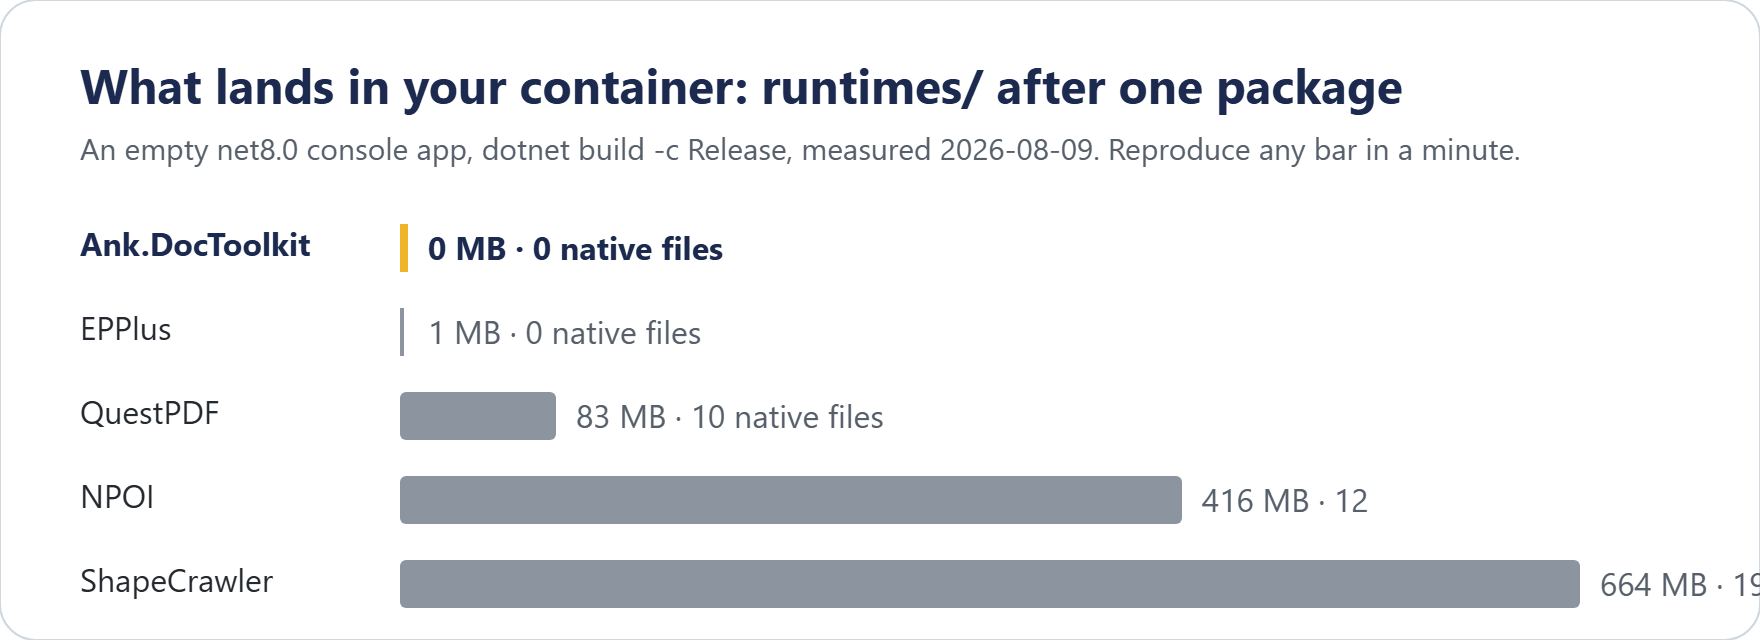
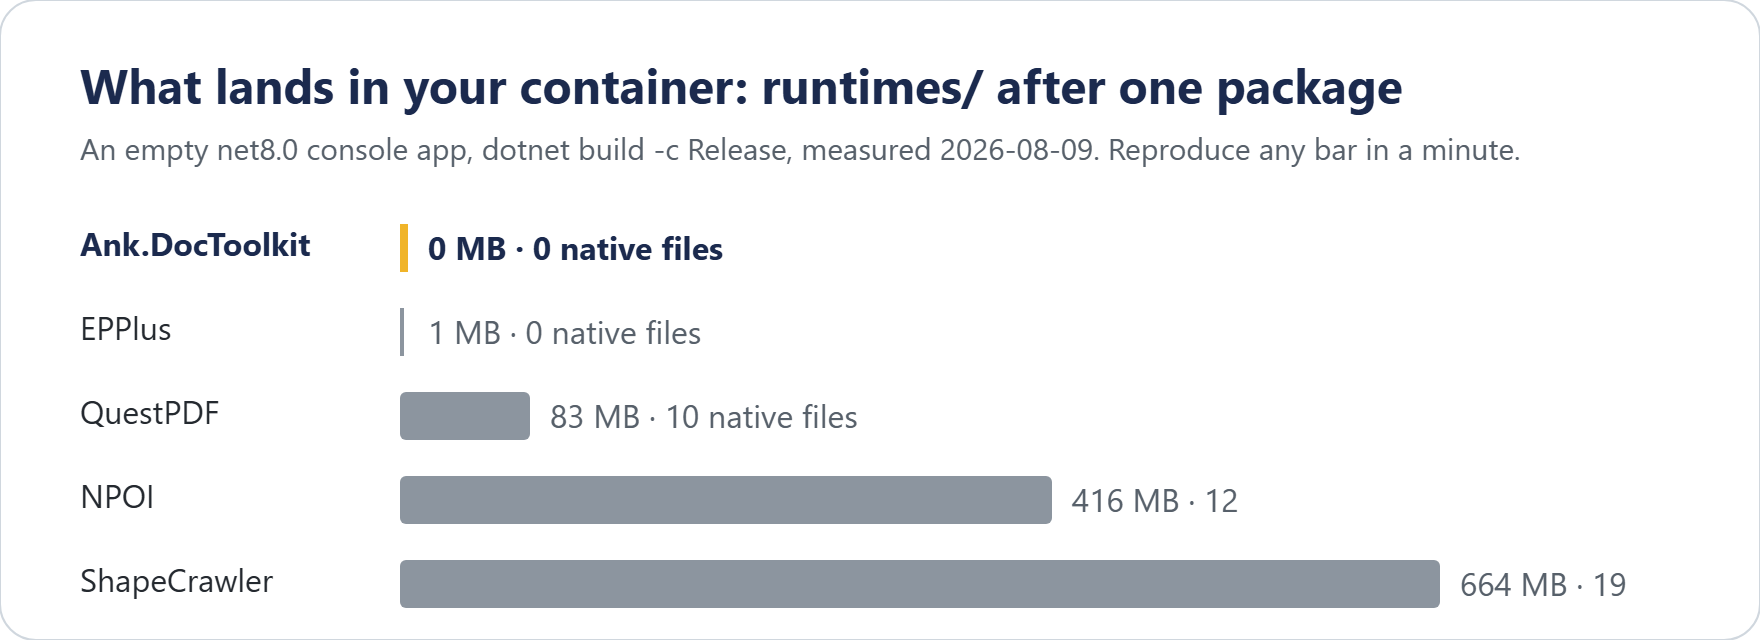
docs: a front page for the GitHub README (D46)
The ponytail layout picked in D46: centred icon, one italic line, four
badges, the hero image, a short story, install, the runtimes/ chart, what
it does, a Proof table, FAQ and links. 202 lines become 157; sentences
average 10 words, none over 25. Two guide links to a README heading that no
longer exists now point at the Reference page, and the chart's bars are
rescaled so the last label fits.

Changed region(s): [[0.5938, 0.7188, 0.7812, 0.8438], [0.2812, 0.5938, 0.5, 0.6875], [0.8125, 0.875, 1.0, 0.9688]]

diff --git a/README.md b/README.md
@@ -1,37 +1,33 @@
-![DocToolkit - convert HTML to PDF and DOCX in C#, no browser, no native binaries](assets/banner.png)
+<p align="center">
+  <img src="assets/icon.png" width="128" alt="DocToolkit">
+</p>
 
-# DocToolkit
+<h1 align="center">DocToolkit</h1>
 
-[![CI](https://github.com/Ank-KhoaHo/DocToolkit/actions/workflows/ci.yml/badge.svg)](https://github.com/Ank-KhoaHo/DocToolkit/actions/workflows/ci.yml)
-[![codecov](https://codecov.io/gh/Ank-KhoaHo/DocToolkit/branch/main/graph/badge.svg)](https://codecov.io/gh/Ank-KhoaHo/DocToolkit)
-[![NuGet](https://img.shields.io/nuget/v/Ank.DocToolkit.svg?label=Ank.DocToolkit)](https://www.nuget.org/packages/Ank.DocToolkit/)
-[![NuGet Downloads](https://img.shields.io/nuget/dt/Ank.DocToolkit.svg)](https://www.nuget.org/packages/Ank.DocToolkit/)
-[![NuGet](https://img.shields.io/nuget/v/Ank.DocToolkit.Extensions.DependencyInjection.svg?label=Ank.DocToolkit.Extensions.DependencyInjection)](https://www.nuget.org/packages/Ank.DocToolkit.Extensions.DependencyInjection/)
+<p align="center">
+  <em>HTML in. Word and PDF out. Nothing else installed.</em>
+</p>
 
-**Convert HTML to PDF in C# — without a headless browser.** Pure managed code: no native
-binaries, no browser, no LibreOffice, no Office interop. Runs on Linux, macOS, Windows and arm64,
-and makes **no network calls at runtime**.
+<p align="center">
+  <a href="https://www.nuget.org/packages/Ank.DocToolkit/"><img src="https://img.shields.io/nuget/v/Ank.DocToolkit?style=flat-square&color=1B2A4E&label=nuget" alt="NuGet"></a>
+  <a href="https://www.nuget.org/packages/Ank.DocToolkit/"><img src="https://img.shields.io/nuget/dt/Ank.DocToolkit?style=flat-square&color=1B2A4E&label=downloads" alt="Downloads"></a>
+  <a href="https://github.com/Ank-KhoaHo/DocToolkit/actions/workflows/ci.yml"><img src="https://img.shields.io/badge/runs%20on-Linux%20%C2%B7%20arm64%20%C2%B7%20Windows%20%C2%B7%20macOS-1B2A4E?style=flat-square" alt="Runs on Linux, arm64, Windows and macOS"></a>
+  <a href="LICENSE"><img src="https://img.shields.io/badge/license-MIT-1B2A4E?style=flat-square" alt="MIT"></a>
+</p>
 
-<!-- BEGIN GENERATED (scripts/gen-capability-matrix.py) - do not edit by hand -->
+<p align="center">
+  <img src="assets/art/hero.png" width="880" alt="The four numbers this library exists for, measured in CI on every push: 0 native binaries in any build output, a 0 MB runtimes folder where QuestPDF adds 83 MB, 0 network calls held by 40 air-gap tests, and 4 platforms in CI: Linux, arm64, Windows and macOS.">
+</p>
 
-| From ↓ / To → | CSV | DOC | DOCX | HTML | Markdown | PDF | PPTX | XLSX |
-|---|---|---|---|---|---|---|---|---|
-| **CSV** | — | · | · | · | · | · | · | · |
-| **DOC** | · | — | **✅** | · | · | · | · | · |
-| **DOCX** | · | · | — | **✅** | **✅** | **✅** | · | · |
-| **HTML** | · | · | **✅** | — | · | **✅** | · | · |
-| **Markdown** | · | · | **✅** | · | — | **✅** | · | · |
-| **PDF** | · | · | · | · | · | — | · | · |
-| **PPTX** | · | · | · | · | · | **✅** | — | · |
-| **XLSX** | **✅** | · | · | **✅** | · | **✅** | · | — |
+---
 
-A **✅** is a converter that ships; **·** is a pair with no converter, not a promise about one. Read a row as "from this format, into these".
+You have a Linux container, a Word template and a PDF due on Friday. The usual answers are a
+headless Chrome, LibreOffice, or a licence with a revenue threshold.
 
-<!-- END GENERATED -->
+DocToolkit is one NuGet package instead. It is pure managed code. It restores, builds and runs the
+same on your laptop and in the container.
 
-Generated from the shipped API, not written by hand — [full grid, plus every edit/read
-operation](https://ank-khoaho.github.io/DocToolkit/guides/capabilities.html). Also: open, edit and
-**password-protect** DOCX, XLSX and PPTX, and read PDF text.
+## Install
 
 ```bash
 dotnet add package Ank.DocToolkit
@@ -51,44 +47,20 @@ byte[] locked = PdfEditor.Protect(pdf, new PdfProtection { UserPassword = "s3cre
 
 <!-- END SNIPPET -->
 
-Targets `net8.0` and `net10.0`. MIT licensed.
+That is the whole setup: no browser download, no `apt-get`, no config file. It targets `net8.0` and
+`net10.0`.
 
-📖 [Guides](https://ank-khoaho.github.io/DocToolkit/guides/getting-started.html) ·
-🔎 [API reference](https://ank-khoaho.github.io/DocToolkit/) · 🗺 [Roadmap](ROADMAP.md) · 📦
-[package README](src/DocToolkit/README.md) · 📝 [CHANGELOG](CHANGELOG.md)
+## Numbers
 
-> **Contributing?** Branch from `main` and open a pull request back into it — `main` itself cannot
-> be pushed directly. See [CONTRIBUTING.md](CONTRIBUTING.md) for the build, the commit-message
-> rules, and the four constraints that will get a pull request rejected.
+<p align="center">
+  <img src="assets/art/runtimes.png" width="880" alt="What lands in your container: the runtimes folder after one dotnet add package, in an empty net8.0 app. Ank.DocToolkit 0 MB and 0 native files; EPPlus 1 MB and 0; QuestPDF 83 MB and 10; NPOI 416 MB and 12; ShapeCrawler 664 MB and 19.">
+</p>
 
-## Measured against the alternatives
+Every bar takes a minute to reproduce. The licence column and the method sit beside the chart in
+[Measured against the alternatives](https://ank-khoaho.github.io/DocToolkit/guides/reference.html#measured-against-the-alternatives).
 
-Most .NET document stacks fail one of three things: a licence with a revenue threshold, a native
-binary that breaks on Linux, or a claim nobody re-checked. This package is built to fail none of
-them, and the numbers below are how that gets verified rather than asserted.
-
-```mermaid
-xychart-beta
-    title "runtimes/ folder in a plain build (MB)"
-    x-axis ["Ank.DocToolkit", "EPPlus", "QuestPDF", "NPOI", "ShapeCrawler"]
-    y-axis "MB in build output" 0 --> 700
-    bar [0, 1, 83, 416, 664]
-```
-
-Those bars are the `runtimes/` column below, which is **not** the same measurement as the native-file
-count beside it: EPPlus's 1 MB contains **zero** `.so`/`.dylib` files. Both are in the table.
-
-| package | native `.so`/`.dylib` in build output | `runtimes/` | licence in NuGet metadata |
-|---|---|---|---|
-| **Ank.DocToolkit** | **0** | **0 MB** | **`MIT`**, as an SPDX expression |
-| EPPlus | 0 | 1 MB | ships `license.md` — read it |
-| QuestPDF | 10 | 83 MB | ships `LICENSE.md` — read it |
-| NPOI | 12 | 416 MB | ships `OSMFEULA.txt` — read it |
-| ShapeCrawler | 19 | 664 MB | none declared |
-
-Every number was measured on 2026-08-09 by adding the package to an empty `net8.0` console app and
-building it. **Reproduce any row in under a minute** — that is the point of publishing the method
-rather than a conclusion:
+<details>
+<summary>Reproduce a bar</summary>
 
 ```bash
 dotnet new console && dotnet add package <name> && dotnet build -c Release
@@ -96,15 +68,7 @@ find bin -path '*runtimes*' \( -name '*.so' -o -name '*.dylib' \) | wc -l
 du -sm bin/Release/net8.0/runtimes
 ```
 
-**Two things this table deliberately does not do.** It does not tell you what those licences say —
-they are linked from each package's own page and are the authors' to describe, not ours. And it does
-not claim native payload is everyone's problem: **EPPlus carries essentially none**, so if that is
-your only concern it is not a reason to switch. Where the payload does appear it comes from
-SkiaSharp and Magick.NET, pulled in transitively for image rendering.
-
-What the table is for is the case where **both** columns matter at once — a Linux container that has
-to stay small, with a licence you can clear without asking anybody. That combination is the whole
-reason this package exists, and all four constraints below are re-checked by CI on every push.
+</details>
 
 ## What it does
 
@@ -115,49 +79,35 @@ reason this package exists, and all four constraints below are re-checked by CI 
 | **PDF** | page count, merge, split, extract, rotate, reorder, insert; read text; read and stamp document information |
 | **Protect** | password-protect and unprotect PDF, DOCX, XLSX and PPTX |
 
-The full grid is generated from the shipped API rather than written by hand:
-**[what it can convert](https://ank-khoaho.github.io/DocToolkit/guides/capabilities.html)**.
+<!-- BEGIN GENERATED (scripts/gen-capability-matrix.py) - do not edit by hand -->
 
-Task-shaped walkthroughs, one per format, start at
-**[Getting started](https://ank-khoaho.github.io/DocToolkit/guides/getting-started.html)** for the
-install-to-first-conversion path, or jump straight to the page for the format you need.
+| From ↓ / To → | CSV | DOC | DOCX | HTML | Markdown | PDF | PPTX | XLSX |
+|---|---|---|---|---|---|---|---|---|
+| **CSV** | — | · | · | · | · | · | · | · |
+| **DOC** | · | — | **✅** | · | · | · | · | · |
+| **DOCX** | · | · | — | **✅** | **✅** | **✅** | · | · |
+| **HTML** | · | · | **✅** | — | · | **✅** | · | · |
+| **Markdown** | · | · | **✅** | · | — | **✅** | · | · |
+| **PDF** | · | · | · | · | · | — | · | · |
+| **PPTX** | · | · | · | · | · | **✅** | — | · |
+| **XLSX** | **✅** | · | · | **✅** | · | **✅** | · | — |
 
-## Why this exists
+A **✅** is a converter that ships; **·** is a pair with no converter, not a promise about one. Read a row as "from this format, into these".
 
-Most .NET document stacks fail at least one of these. This one satisfies all four:
+<!-- END GENERATED -->
 
-| Constraint | How |
-|---|---|
-| **Free for commercial use** | 38 dependencies: 35 MIT, 2 Apache-2.0, and OfficeIMO.Core (MIT AND Apache-2.0 AND BSD-3-Clause). No revenue thresholds, no per-seat fees. |
-| **NuGet only** | No Chromium download, no LibreOffice install, no native binaries. |
-| **Targets `net8.0` and `net10.0`** | Two LTS targets, one public API surface. `net9.0` is deliberately absent — a `net9.0` app already consumes the `net8.0` build, so it would add no reach. `netstandard2.0` is deliberately absent too: every dependency supports it, but the bounded-fetch guarantee on remote images cannot be expressed there, and `DateOnly`/`TimeOnly` would make the API differ per target. |
-| **Runs everywhere .NET does** | The full suite runs in CI on Linux, Windows, macOS and **arm64** (`ubuntu-24.04` x64, `windows-latest`, `macos-latest` Apple Silicon, `ubuntu-24.04-arm`). Not inferred from "pure managed" - measured on each. |
-| **Works offline** | No runtime network I/O. Proven by 40 air-gap tests. |
-
-All four are properties of the *resolved dependency graph*, so a single upstream bump can break
-them silently — which is why CI re-checks every one on every push.
-
-**That has happened once already.** PowerPoint support originally used ShapeCrawler, whose *API*
-was checked and whose *dependencies* were not. It pulls in SkiaSharp and Magick.NET, which put
-**38 native `.so`/`.dylib` files and 664 MB of `runtimes/`** into build output — breaking two of
-the four constraints at once, on a package that restored and built perfectly well. It was replaced
-with raw `DocumentFormat.OpenXml`, and the check that would have caught it now runs on every push.
-The [comparison table](#measured-against-the-alternatives) above is the same measurement, applied
-to the alternatives.
-
-### Trust, verification and limits
+## Proof
 
 | | |
 |---|---|
-| **Trimmable / native AOT** | Both packages marked, and both **run-tested** in CI — not just published warning-free. One caveat: ClosedXML emits trim warning `IL2090`. → [Trimming and native AOT](https://ank-khoaho.github.io/DocToolkit/guides/production.html#trimming-and-native-aot) |
-| **Provenance attestation** | Every `.nupkg` and SBOM is signed, naming the workflow, commit and runner. → [Verifying a release](https://ank-khoaho.github.io/DocToolkit/guides/production.html#verifying-a-release) |
-| **SBOM** | CycloneDX per package, attached to every [GitHub Release](https://github.com/Ank-KhoaHo/DocToolkit/releases) |
-| **Offline, enforced not intended** | 40 guard tests assert **zero** socket connections against 16 ways markup can name a host; mutation-tested weekly. → [Nothing reaches the network unless you ask](https://ank-khoaho.github.io/DocToolkit/guides/production.html#nothing-reaches-the-network-unless-you-ask) |
-| **Fidelity, on real files** | 88–98% success across 500+ real `.gov` documents, monthly. → [Measured on documents nobody here wrote](https://ank-khoaho.github.io/DocToolkit/guides/capabilities.html#measured-on-documents-nobody-here-wrote) |
-| **What this won't do** | CSS layout, mixed page setups, multi-line headers — the bounded list. → [Known limitations](https://ank-khoaho.github.io/DocToolkit/guides/production.html#what-this-library-will-not-do) |
+| **Every push** | [![CI](https://github.com/Ank-KhoaHo/DocToolkit/actions/workflows/ci.yml/badge.svg)](https://github.com/Ank-KhoaHo/DocToolkit/actions/workflows/ci.yml) [![codecov](https://codecov.io/gh/Ank-KhoaHo/DocToolkit/branch/main/graph/badge.svg)](https://codecov.io/gh/Ank-KhoaHo/DocToolkit) on Linux, arm64, Windows and macOS |
+| **Trimmable / native AOT** | both packages run-tested in CI, not just published. ClosedXML emits `IL2090`. → [Trimming and native AOT](https://ank-khoaho.github.io/DocToolkit/guides/production.html#trimming-and-native-aot) |
+| **Provenance and SBOM** | every `.nupkg` and CycloneDX SBOM is attested to the workflow, commit and runner. → [Verifying a release](https://ank-khoaho.github.io/DocToolkit/guides/production.html#verifying-a-release) |
+| **Offline, enforced** | 40 guard tests assert zero socket connections against 16 ways markup can name a host. → [Nothing reaches the network unless you ask](https://ank-khoaho.github.io/DocToolkit/guides/production.html#nothing-reaches-the-network-unless-you-ask) |
+| **Real files** | 88–98% success across 500+ real `.gov` documents, monthly. → [Measured on documents nobody here wrote](https://ank-khoaho.github.io/DocToolkit/guides/capabilities.html#measured-on-documents-nobody-here-wrote) |
+| **Free for commercial use** | 38 dependencies: 35 MIT, 2 Apache-2.0, and OfficeIMO.Core (MIT AND Apache-2.0 AND BSD-3-Clause) |
 
-Offline is the default everywhere; remote images are the one opt-in, and it stays bounded rather
-than wide open:
+Remote images are the one network opt-in, and it stays bounded:
 
 <!-- BEGIN SNIPPET: readme-remote-opt-in -->
 
@@ -166,37 +116,42 @@ byte[] docx = await HtmlToDocxConverter.ConvertAsync(html, allowRemoteImageDownl
 
 // Bounded instead of wide open: timeout, byte cap, host allow-list and a block on
 // loopback/private/link-local addresses, all on by default. Not a complete SSRF defence — see
-// the package README.
+// the Reference page.
 byte[] bounded = await HtmlToDocxConverter.ConvertAsync(html, new RemoteImageOptions());
 ```
 
 <!-- END SNIPPET -->
 
+## FAQ
+
+**Does it need Chrome or LibreOffice?**
+No. Every PDF is rendered from a real Word document, in managed code.
+
+**Can I use it at work?**
+Yes. It is MIT licensed, and every dependency is MIT, Apache-2.0 or BSD.
+
+**Which .NET versions?**
+`net8.0` and `net10.0`, the two LTS releases. A `net9.0` app uses the `net8.0` build.
+
+**What will it not do?**
+CSS layout, mixed page setups and multi-line headers, among a few others. The list is in
+[Known limitations](https://ank-khoaho.github.io/DocToolkit/guides/reference.html#known-limitations).
+
 ## Documentation
 
-The **[package README](src/DocToolkit/README.md)** is the reference: every capability, every
-overload, and the caveats that matter. It is also what nuget.org renders, so it is what you get on
-the package page.
-
-| | |
-|---|---|
-| **[Guides](https://ank-khoaho.github.io/DocToolkit/guides/getting-started.html)** | Task-shaped walkthroughs - getting started, HTML, Markdown, Word, spreadsheets, DI, production |
-| **[API reference](https://ank-khoaho.github.io/DocToolkit/)** | Generated from the source |
-| **[Samples](samples/)** | One runnable project per capability, each answering one question, built against the published packages |
-| **[Package README](src/DocToolkit/README.md)** | Full usage, page setup, passwords, telemetry, known limitations, and the migration notes per release |
-| **[Extensions README](src/DocToolkit.Extensions.DependencyInjection/README.md)** | `services.AddDocToolkit()` and the injectable interfaces |
-| **[CHANGELOG](CHANGELOG.md)** | What changed, per release |
-| **[PUBLIC.md](PUBLIC.md)** | Why the design docs, ADRs and backlog are **not** in your clone, and what would have to change for them to be |
-| **[CONTRIBUTING](CONTRIBUTING.md)** | Build, test, commit rules, repository layout, and the four constraints a pull request must not break |
-| **[SECURITY](SECURITY.md)** | Reporting a vulnerability, the scope, and the documented limits that are not findings |
+- [Guides](https://ank-khoaho.github.io/DocToolkit/guides/getting-started.html): one walkthrough per format.
+- [Reference](https://ank-khoaho.github.io/DocToolkit/guides/reference.html): every capability, overload and caveat.
+- [API reference](https://ank-khoaho.github.io/DocToolkit/api/DocToolkit.html), generated from the source.
+- [Samples](samples/): one runnable project per capability, built against the published packages.
+- [Dependency injection](src/DocToolkit.Extensions.DependencyInjection/README.md): `services.AddDocToolkit()`.
+- [CHANGELOG](CHANGELOG.md) · [Roadmap](ROADMAP.md) · [Security](SECURITY.md) · [PUBLIC.md](PUBLIC.md)
+- [CONTRIBUTING.md](CONTRIBUTING.md): the build, the commit rules and the four constraints.
 
 ## Licence
 
-MIT — see [LICENSE](LICENSE).
-
-DocToolkit is maintained by [WillowAnk Solution](https://wanksolution.com/). Its product page is [wanksolution.com/doctoolkit](https://wanksolution.com/doctoolkit/).
+MIT. See [LICENSE](LICENSE). Maintained by [WillowAnk Solution](https://wanksolution.com/);
+product page [wanksolution.com/doctoolkit](https://wanksolution.com/doctoolkit/).
 
 ---
 
-If this replaced a headless browser in your build, a star helps others find it — GitHub's
-repository search ranks partly on stars, and this one has three.
+If this replaced a headless browser in your build, a star helps others find it.

diff --git a/docfx/guides/capabilities.md b/docfx/guides/capabilities.md
@@ -108,4 +108,4 @@ directly. **Text is not dropped silently,** but whether it renders without `PdfF
 on the host's fonts; where it cannot be encoded, the conversion throws, naming the character.
 The DOCX text exporters and the Markdown importers do report their losses, through
 `ConvertWithReport`. Which is which, and what each one drops, is in the guides and in the
-[known limitations](https://github.com/Ank-KhoaHo/DocToolkit#known-limitations).
+[known limitations](reference.md#known-limitations).

diff --git a/docfx/guides/production.md b/docfx/guides/production.md
@@ -198,4 +198,4 @@ Worth knowing before you design around it:
 - **One page setup per document.** No mixed portrait-and-landscape sections.
 
 The full list, with the reasoning behind each, is in the
-[README](https://github.com/Ank-KhoaHo/DocToolkit#known-limitations).
+[Reference](reference.md#known-limitations).
